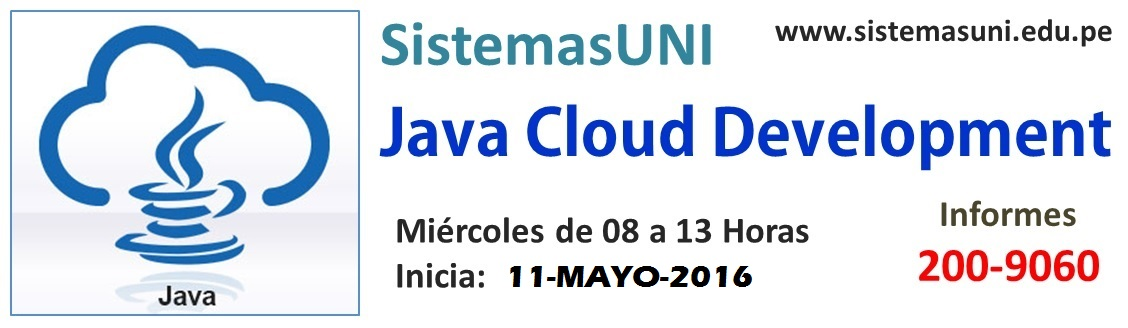
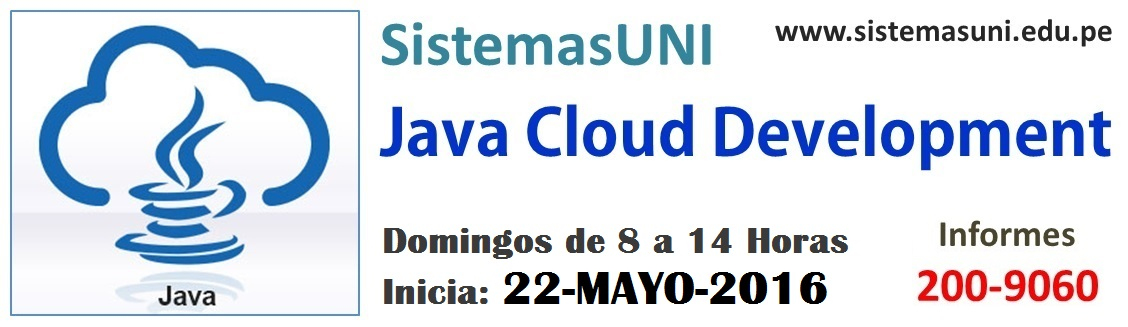
Repositorio.

diff --git a/README.md b/README.md
@@ -4,8 +4,8 @@
 # JAVA CLOUD DEVELOPMENT
 
 - Lugar: SistemasUNI
-- Horario: Miercoles de 8 a 13 Horas
-- Inicio: 11-MAY-2016
+- Horario: Domingos de 8 a 14 Horas
+- Inicio: 22-MAY-2016
 - Dirección: https://goo.gl/maps/98vwAt9NZMU2
 - Contenido: http://www.sistemasuni.edu.pe/dcursos/cjavadessolnube.html
 - Pagina: http://gcoronelc.github.io/SISTUNI_JAVA_CLOUD_001/
@@ -17,6 +17,4 @@
 - Blog: www.desarrollasoftware.com
 - Correo: gcoronelc@gmail.com
 
-# CLASE 01
 
-- Fecha: 11-MAY-2016
